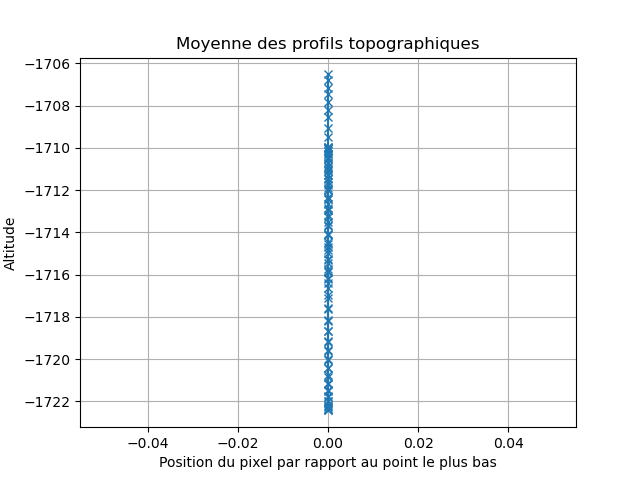
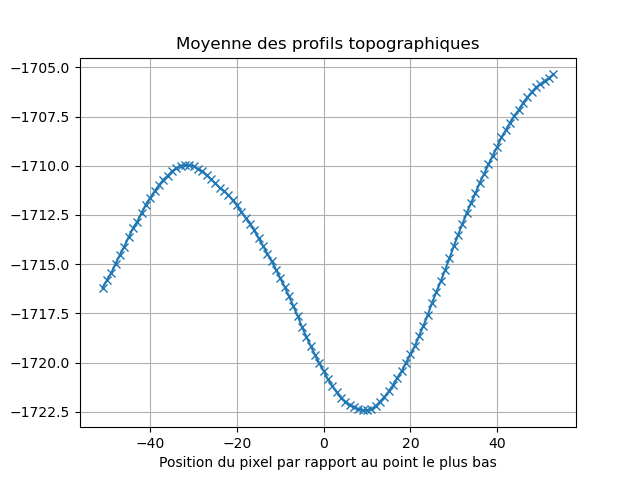
Correction des erreurs sur les profils topographiques de RG7

diff --git a/calculs_5m.py b/calculs_5m.py
@@ -30,7 +30,7 @@ from tqdm import tqdm
 #################################################################################### DATA OPENING ####################################################################################
 ######################################################################################################################################################################################
 
-zone = 'RG2'
+zone = 'RG7'
 
 # Stocke le chemin d'accès du fichier shapefile "Buffer (large) des cratères" dans une variable
 crater_shapefile_path = 'data/Buffer_crateres/Buffer_' + zone +'/'
@@ -336,7 +336,7 @@ with rasterio.open(raster_path) as src:
                     # Créer un objet Point
                     point_haut_vert_180 = Point(max_x_bas, max_y_bas)
 
-        # DIAMETRES
+        ### DIAMETRES
                 D = []
 
                 # Calcul des differents valeurs de diametres
@@ -422,7 +422,7 @@ with rasterio.open(raster_path) as src:
 
                     if (0.9<= circularity <=1) :
 
-                # PENTE
+        ### PENTE
 
                         slopes = []
                         for i in range (int(len(max_value)/2)) :
@@ -482,7 +482,7 @@ with rasterio.open(raster_path) as src:
                             pente_max = round(max(slope_degrees_ns, slope_degrees_eo), 1)
                             '''
 
-                        # Créer un cercle qui est ajusté au dimension du cratère
+        ### CREATION D'UN CERCLE AJUSTE AUX DIMENSIONS DU CRATERE
                             def buffer_diam_max(center_x, center_y, radius, num_points=40):
                                 center = Point(center_x, center_y)
                                 buffer_poly = center.buffer(radius, resolution=num_points)
@@ -543,10 +543,10 @@ with rasterio.open(raster_path) as src:
 
                             #Teste si le pixel haut Est, Ouest, Nord et Sud ne se trouve pas trop prêt de la limite du fichier de forme de polygone "selection_crateres.shp"
 
-    ### Ajout de la géométrie issue des highest_points
+        ### Ajout de la géométrie issue des highest_points
                             rim_approx_geom = Polygon(max_coord_real)
 
-    ### Lissage du polygone issu du polygone précédent
+        ### Lissage du polygone issu du polygone précédent
 
                             '''
                             def bezier_curve(p0, p1, p2, n=20) :
@@ -580,10 +580,13 @@ with rasterio.open(raster_path) as src:
 
                             rim_approx_smooth_geom = smooth_polygon_with_bezier(rim_approx_geom)
                             '''
-    ### CREATION DES PROFILS TOPOGRAPHIQUES
+
+        ### CREATION DES PROFILS TOPOGRAPHIQUES
 
                             all_profiles = []
-                            min_X = [0] * 100
+                            min_X = [0] * 1000          # Trouver une variable plus exacte aue 1000
+
+            ### Creation des 18 profils du cratere
                             for i in range(int(len(profils) / 2)):
 
                                 demi_profil = profils[i + 18]
@@ -591,7 +594,7 @@ with rasterio.open(raster_path) as src:
                                 reversed_demi_profil = list(reversed(profils[i]))[:-1]
 
                                 demi_x_positif = list(range(len(demi_profil)))
-                                demi_x_negatif = list(reversed([(valeur + 1 )* -1 for valeur in list(range(len(reversed_demi_profil)))]))
+                                demi_x_negatif = list(reversed([(valeur + 1 ) * -1 for valeur in list(range(len(reversed_demi_profil)))]))
 
                                 X = demi_x_negatif + demi_x_positif
 
@@ -619,8 +622,7 @@ with rasterio.open(raster_path) as src:
                                 plt.savefig("results/" + zone + "/profils/" + str(id) +"/Profil_" + str(i * 10) +"_" + str((i + 18) * 10) +".png")
                                 plt.close()
 
-
-
+            ### Adaptation des profils pour le moyennage futur
                             for profil_individuel in all_profiles:
                                 if len(profil_individuel) > len(min_X):
                                     excedant = len(profil_individuel) - len(min_X)
@@ -635,6 +637,7 @@ with rasterio.open(raster_path) as src:
                                         else :
                                             profil_individuel = profil_individuel[int(excedant / 2): - math.ceil(excedant / 2)]
 
+            ### Moyennage des profils
                             profil_moyen = []
                             for x in range(len(min_X)) :
                                 colonne_i = [sous_liste[x] for sous_liste in all_profiles]
@@ -650,16 +653,16 @@ with rasterio.open(raster_path) as src:
 
 
 
-    ### MISE EN PLACE DES DATAS POUR LA CREATION FUTURE DES SHAPEFILE
+        ### MISE EN PLACE DES DATAS POUR LA CREATION FUTURE DES SHAPEFILE
                             angle = 0
 
                             for line in line_geom:
-                                Lignes_visualisation.append(({'geometry': line,'position': str(angle), 'run_id': id, 'NAC_DTM_ID': nac_id}))
+                                Lignes_visualisation.append(({'geometry': line, 'position': str(angle), 'run_id': id, 'NAC_DTM_ID': nac_id}))
                                 angle += 10
 
-                            centers.append(({'geometry': coord_center_geom,'position': "centre", 'run_id': id, 'NAC_DTM_ID': nac_id}))
+                            centers.append(({'geometry': coord_center_geom, 'position': "centre", 'run_id': id, 'NAC_DTM_ID': nac_id}))
 
-                            rim_approx.append(({'geometry': rim_approx_geom,'run_id': id, 'NAC_DTM_ID': nac_id}))
+                            rim_approx.append(({'geometry': rim_approx_geom, 'run_id': id, 'NAC_DTM_ID': nac_id}))
 
                             # rim_approx_smooth.append(({'geometry': rim_approx_smooth_geom, 'run_id': id, 'NAC_DTM_ID': nac_id}))
 
